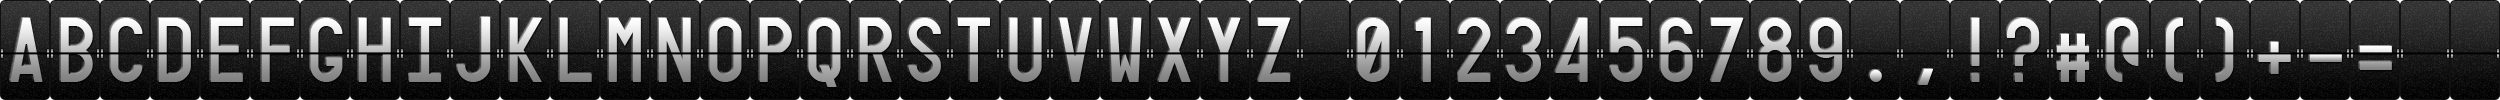
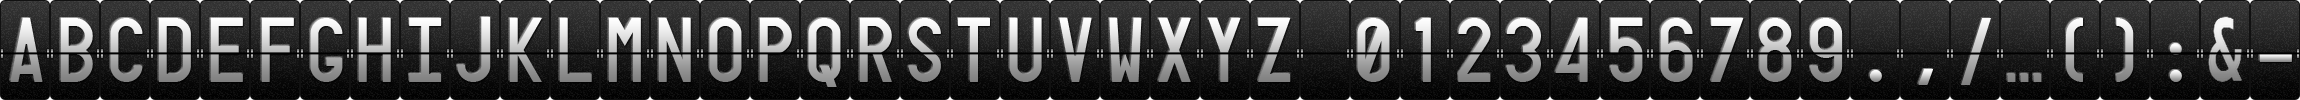
Scaled Chars and better animation

diff --git a/htdocs/scripts/flipboard.js b/htdocs/scripts/flipboard.js
@@ -74,11 +74,11 @@ var nid = [
 ]
 
 var flipperinterval;
-var linenumbers = 12;
+var linenumbers = 11;
 var offset = linenumbers;
-var charnumber = 37;
-var lineflipintervall = 12;
-var completeflipintervall = 300;
+var charnumber = 38;
+var lineflipintervall = 10;
+var completeflipintervall = 180;
 
 function makemilliseconds(seconds) {
 	return seconds * 1000;
@@ -88,6 +88,8 @@ function animate_line(animate_selector) {
 	title = $(animate_selector + ' .title');
 	title.splitFlap({
 		'image' : 'css/images/chars.png',
+		'charWidth' : 40,
+		'charHeight' : 80,
 		'charsMap' : 'ABCDEFGHIJKLMNOPQRSTUVWXYZ 0123456789.,|@():+-',
 		'speed' : 5,
 		'speedVariation' : 1
@@ -96,7 +98,8 @@ function animate_line(animate_selector) {
 	logo = $(animate_selector + ' .logo');
 	logo.splitFlap({
 		'image' : 'css/images/logos.png',
-		'charWidth' : 200,
+		'charWidth' : 160,
+		'charHeight' : 80,
 		'charsMap' : 'ABCDEFGHIJKLMNOPQRSTUVWXYZ012345678',
 		'speed' : 3,
 		'speedVariation' : 1
@@ -105,6 +108,8 @@ function animate_line(animate_selector) {
 	locationcode = $(animate_selector + ' .location');
 	locationcode.splitFlap({
 		'image' : 'css/images/chars.png',
+		'charWidth' : 40,
+		'charHeight' : 80,
 		'charsMap' : 'ABCDEFGHIJKLMNOPQRSTUVWXYZ ',
 		'speed' : 3,
 		'speedVariation' : 1

diff --git a/htdocs/css/general.css b/htdocs/css/general.css
@@ -14,21 +14,8 @@ header {
 	height: 100px;
 }
 #content {
-	padding: 5px 40px;
+	padding: 10px 15px;
 }
-
-/**
- * #content
- * width: 2480px;
- * height: 1375px;
- * position: absolute;
- * top: 50%;
- * left: 0%;
- * margin: 0 0 0 -310px;
- * 
- * border: 7px solid #000000;
- * box-shadow: 5px 10px 20px #CCCCCC inset;
- */
 h1 {
 	margin: 0 0 10px 0;
 	padding: 0;
@@ -45,10 +32,10 @@ h1 a {
 	clear: both;
 }
 .logo {
-	margin-right: 25px;
-	margin-left: 25px;
+	margin-right: 10px;
+	margin-left: 10px;
 }
 span {
-	margin-bottom: 10px;
+	margin-bottom: 15px;
 	float: left;
 }
